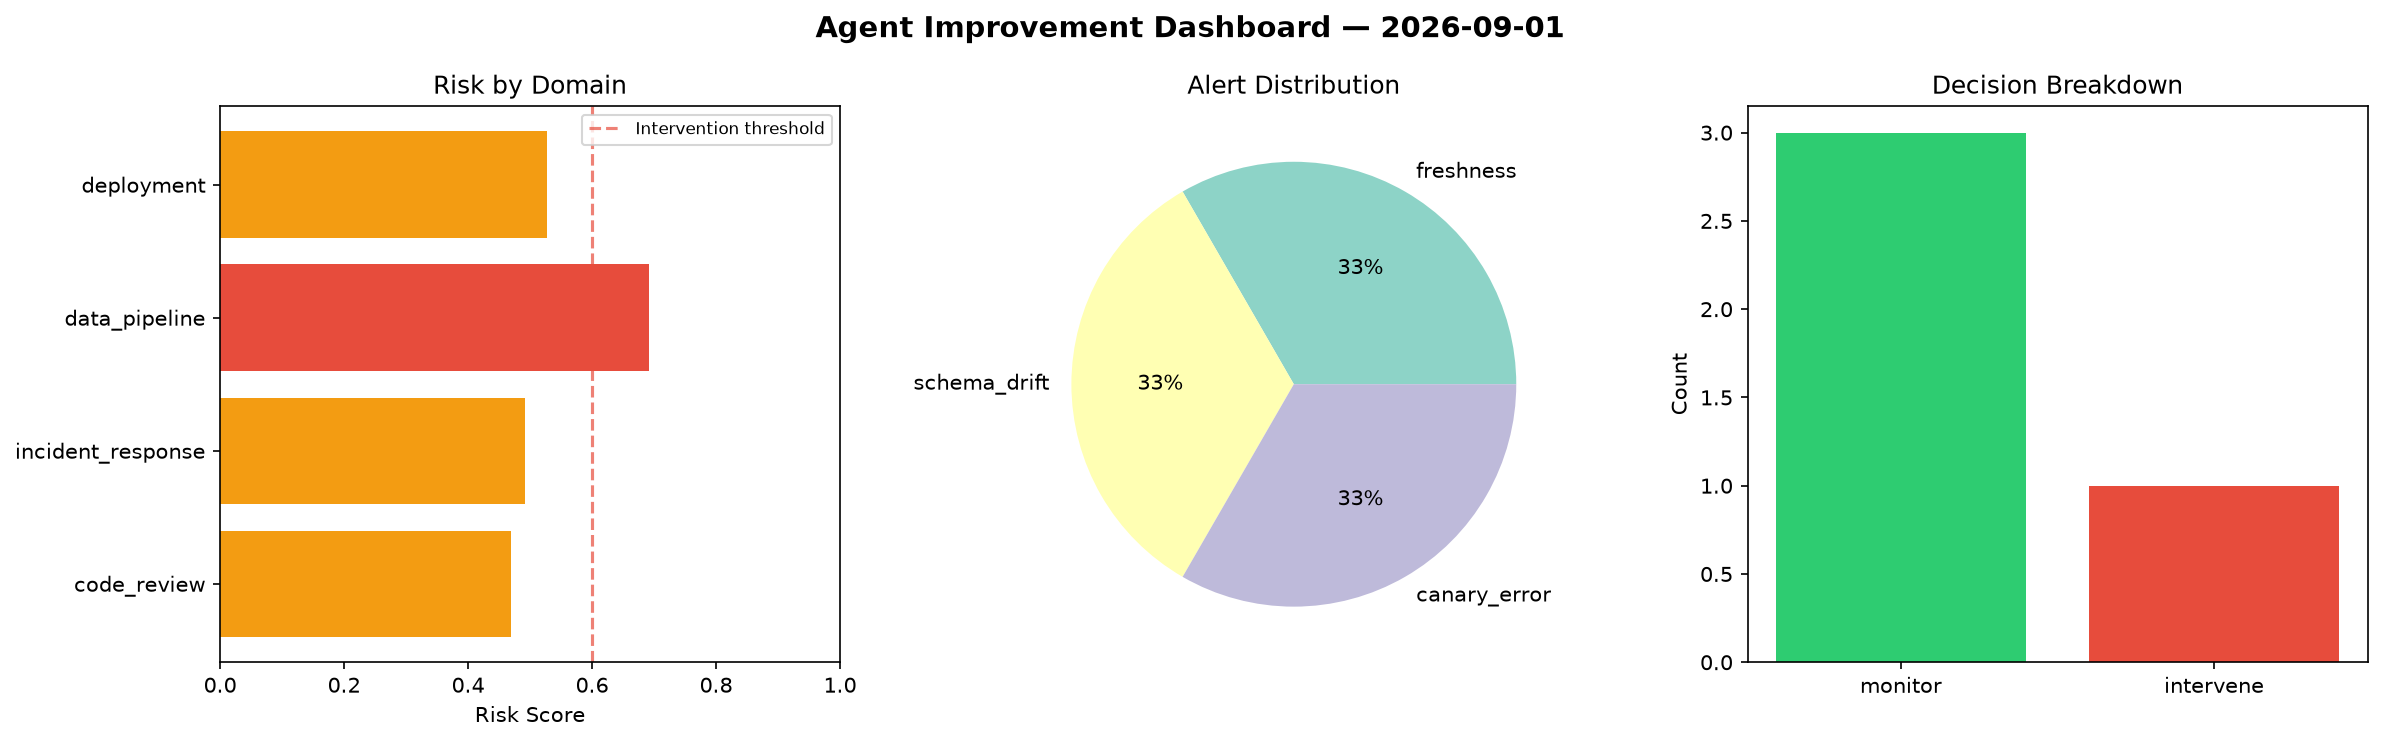
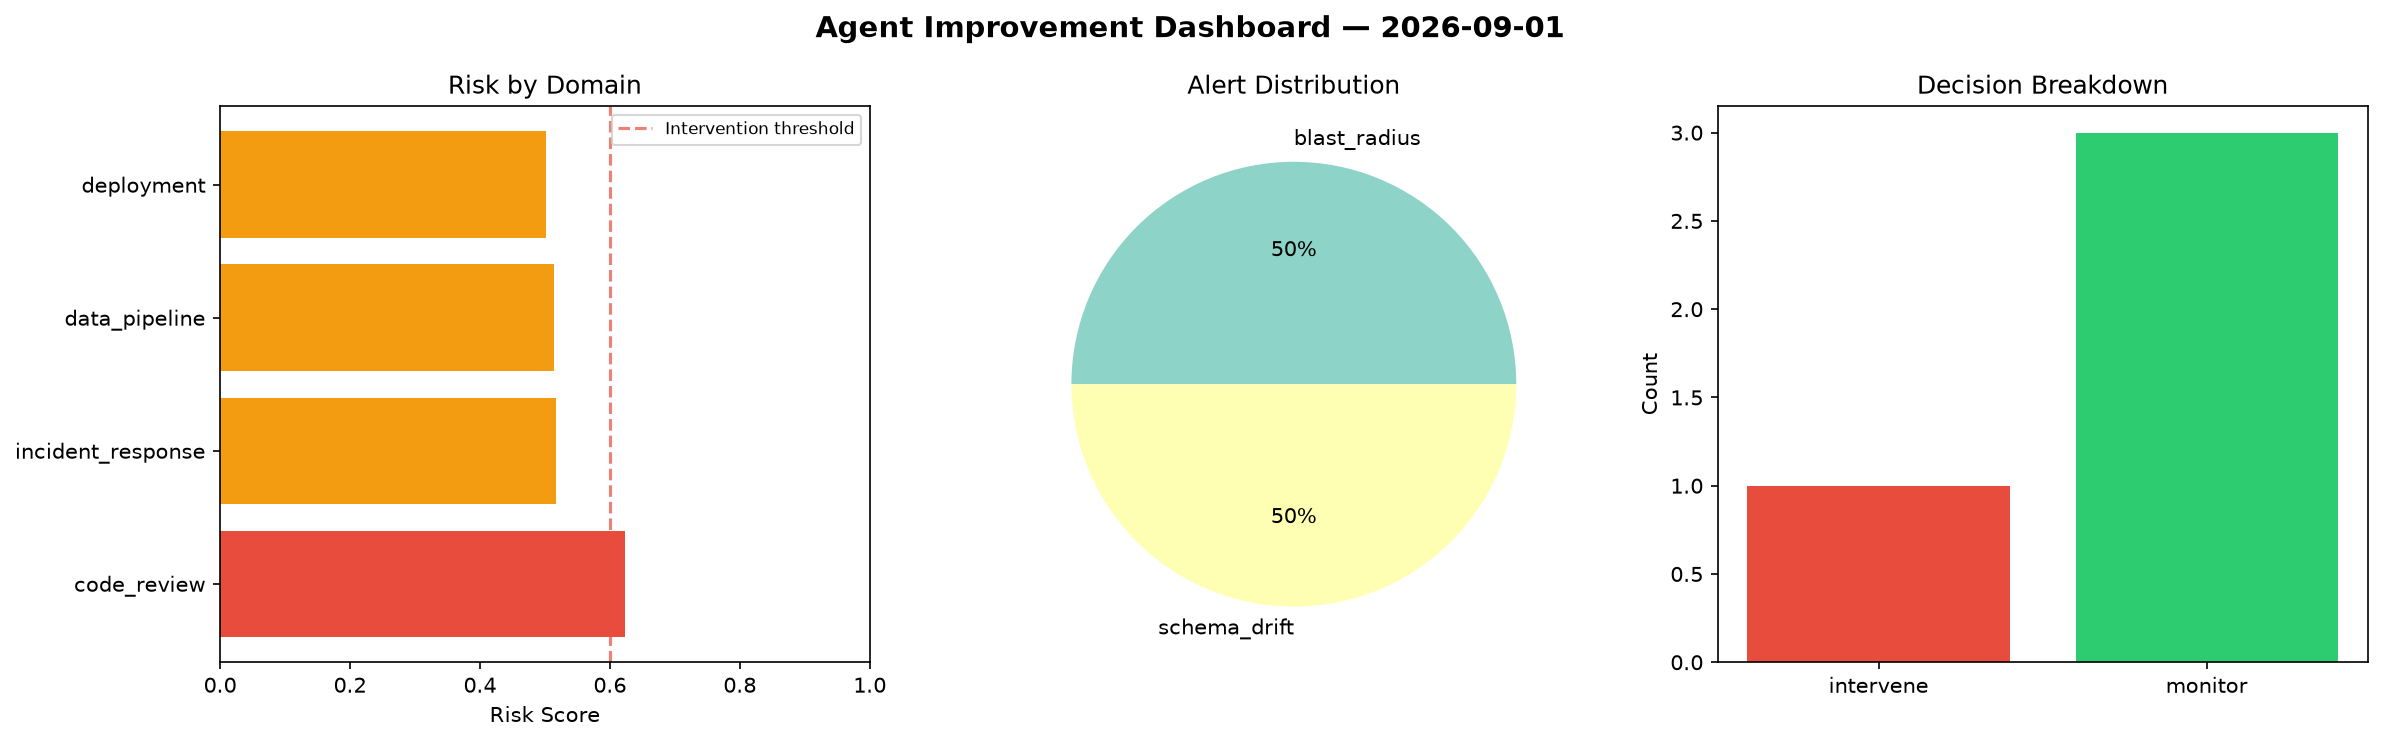
agent-improvement: daily cycle 2026-09-01T13:29

diff --git a/logs/2026-09-01.md b/logs/2026-09-01.md
@@ -1,6 +1,6 @@
 # Agent Improvement Report — 2026-09-01
 
-**Cycle ID:** `df1b2802` | **Avg Risk:** 0.5449 | **Interventions:** 1/4
+**Cycle ID:** `2c65cb89` | **Avg Risk:** 0.5391 | **Interventions:** 1/4
 
 ![Dashboard](2026-09-01_dashboard.png)
 
@@ -10,18 +10,18 @@
 
 | Domain | Risk Score | Decision | Alerts |
 |--------|-----------|----------|--------|
-| code_review | 0.4698 | monitor | none |
-| incident_response | 0.4911 | monitor | none |
-| data_pipeline | 0.6916 | intervene | freshness, schema_drift |
-| deployment | 0.5271 | monitor | canary_error |
+| code_review | 0.6236 | intervene | none |
+| incident_response | 0.5163 | monitor | blast_radius |
+| data_pipeline | 0.5145 | monitor | schema_drift |
+| deployment | 0.502 | monitor | none |
 
 ## Delta vs Yesterday
 
 | Domain | Today | Yesterday | Change |
 |--------|-------|-----------|--------|
-| code_review | 0.4698 | 0.4803 | 📉 -2.2% |
-| incident_response | 0.4911 | 0.4637 | 📈 5.9% |
-| data_pipeline | 0.6916 | 0.3038 | 📈 127.6% |
-| deployment | 0.5271 | 0.6746 | 📉 -21.9% |
+| code_review | 0.6236 | 0.4803 | 📈 29.8% |
+| incident_response | 0.5163 | 0.4637 | 📈 11.3% |
+| data_pipeline | 0.5145 | 0.3038 | 📈 69.4% |
+| deployment | 0.502 | 0.6746 | 📉 -25.6% |
 
-**Refinement:** `{'adjustment': 'tighten_thresholds', 'trend': 'degrading', 'window': 4}`
+**Refinement:** `{'adjustment': 'maintain', 'trend': 'improving', 'window': 4}`
